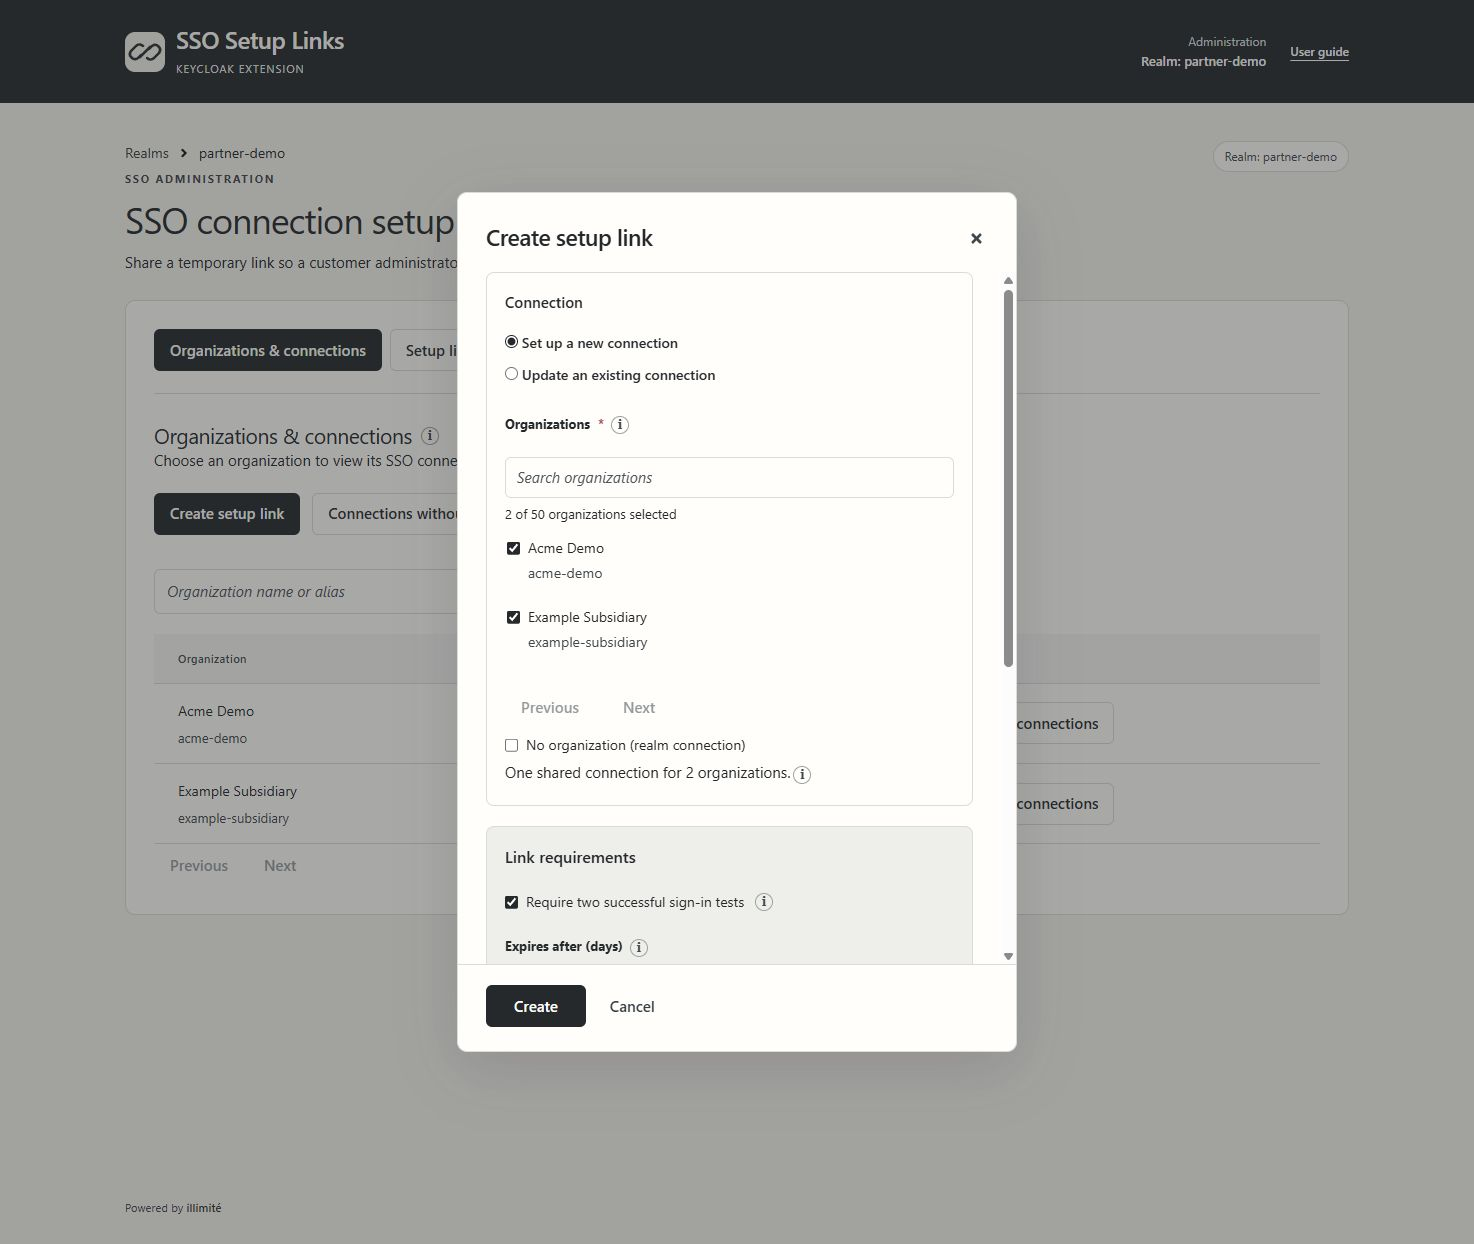
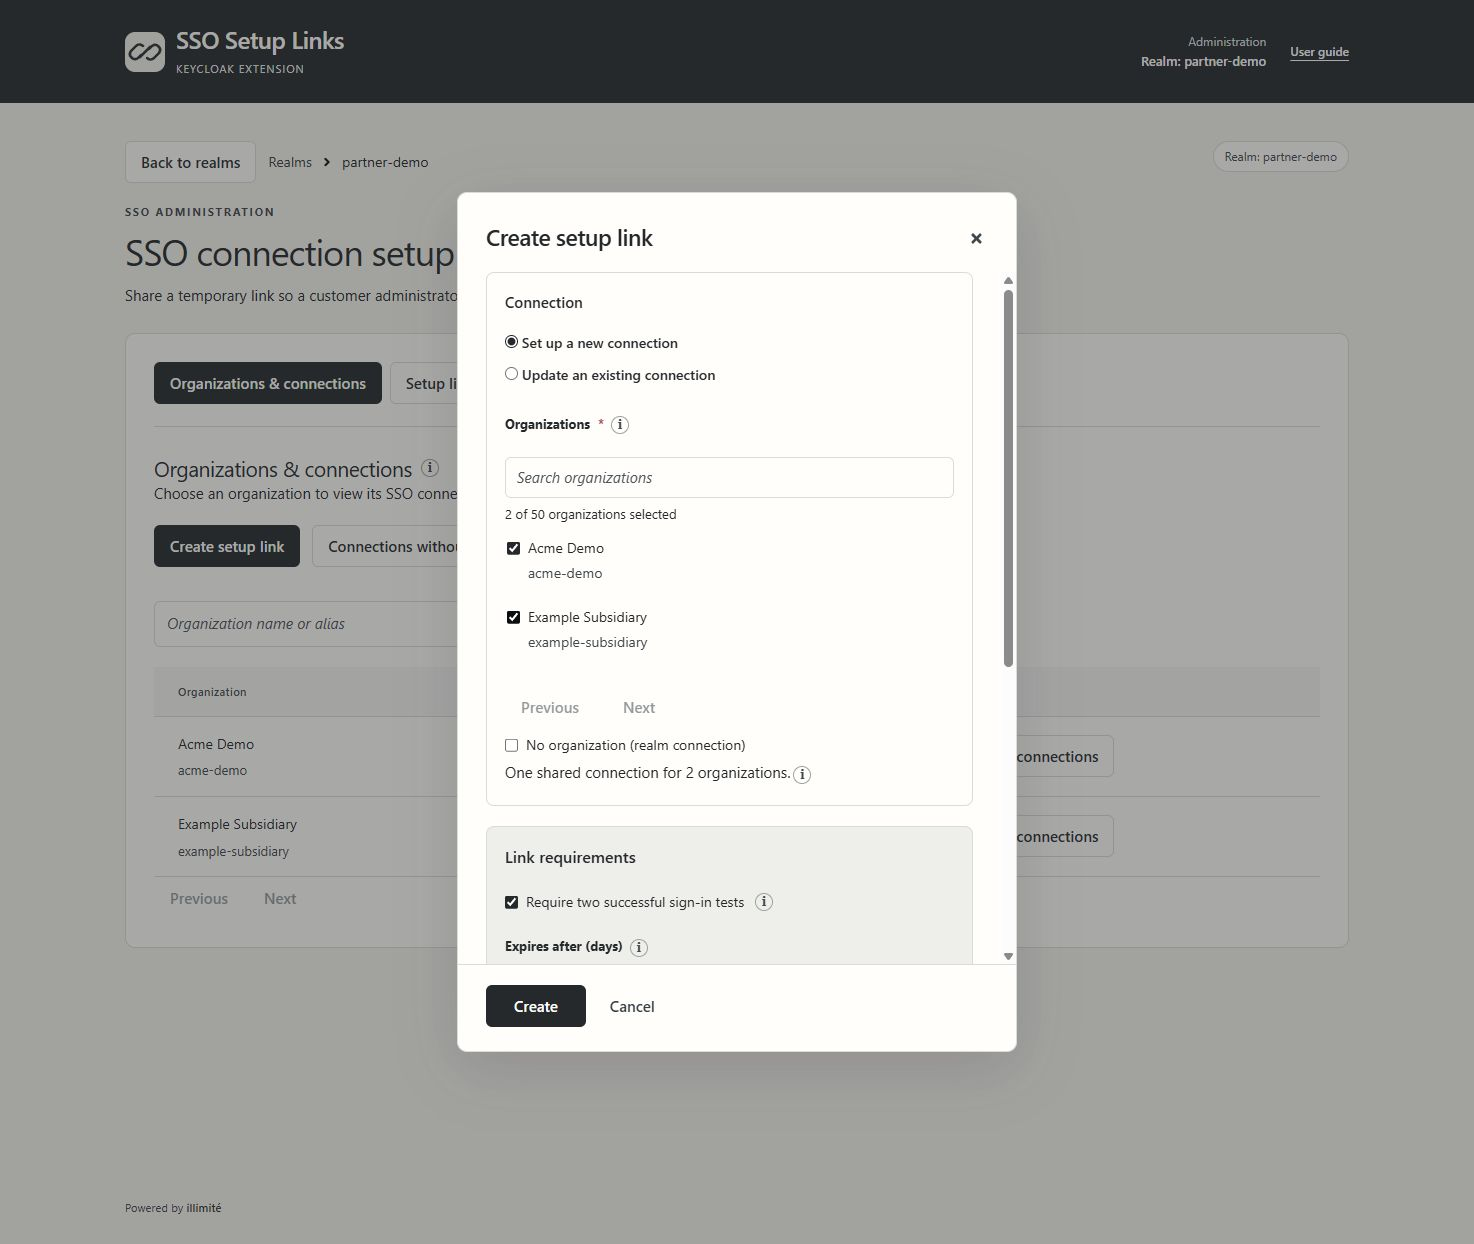
Refresh SAML walkthrough and clarify setup scopes

Changed region(s): [[0.0624, 0.1222, 0.3121, 0.7331], [0.6866, 0.6415, 0.749, 0.7026], [0.6866, 0.5804, 0.749, 0.6109]]

diff --git a/keycloak-sso/index.html b/keycloak-sso/index.html
@@ -53,7 +53,7 @@
           </div>
         </fieldset>
       </div>
-      <p class="walkthrough-note">Current owner and OIDC screens · synthetic example data. SAML examples show the earlier interface.</p>
+      <p class="walkthrough-note">Current owner and customer screens · synthetic example data.</p>
 
       <nav class="step-nav" aria-label="Walkthrough steps">
         <ol>
@@ -93,9 +93,9 @@
             <div data-protocol="saml">
               <p>Open the invitation and import the customer's SAML metadata, or enter its entity ID, sign-on URL and signing certificate.</p>
               <p>Choose a stable NameID or released identity attribute. Once the draft is saved, register its exact ACS URL or import the generated service-provider metadata.</p>
-              <a class="text-link supporting-link" href="assets/19-saml-exact-registration.jpg" data-enlarge data-caption="SAML wizard — exact ACS and service-provider registration" target="_blank" rel="noopener">See the SAML registration screen <span aria-hidden="true">↗</span></a>
+              <a class="text-link supporting-link" href="assets/2026-10-31-saml-registration.png" data-enlarge data-caption="SAML wizard — exact ACS and service-provider registration" target="_blank" rel="noopener">See the SAML registration screen <span aria-hidden="true">↗</span></a>
             </div>
-            <aside class="stage-aside"><strong>Mappings start with useful defaults.</strong> Profile rules prefill incoming username, email and name sources. The recipient can edit sources the profile allows. Required and locked rules remain enforced; the stable account ID is a separate choice.</aside>
+            <aside class="stage-aside"><strong>Mappings start with useful defaults.</strong> Profiles prefill source claim or attribute names; the provider supplies their values. Recipients can edit permitted sources and omit optional mappings. Required and locked rules stay enforced. The stable account ID is separate; native OIDC profile imports still apply.</aside>
             <p class="stage-takeaway">The wizard saves a hidden draft before testing.</p>
           </div>
           <div class="protocol-screens">
@@ -105,9 +105,9 @@
               <figcaption>Actual customer interface · OIDC configuration</figcaption>
             </figure>
             <figure class="product-screen" data-protocol="saml">
-              <div class="screen-toolbar"><span>Customer wizard <span aria-hidden="true">/</span> SAML configuration</span><a href="assets/17-saml-configuration.jpg" class="enlarge-link" data-enlarge data-caption="SAML wizard — metadata and provider configuration" target="_blank" rel="noopener">View full screenshot <span aria-hidden="true">↗</span></a></div>
-              <div class="screen-scroll"><img src="assets/17-saml-configuration.jpg" width="1440" height="1793" alt="The customer SAML configuration page showing metadata import and identity-provider fields with certificate content masked." loading="lazy"></div>
-              <figcaption>SAML configuration · earlier interface, 26 October 2026</figcaption>
+              <div class="screen-toolbar"><span>Customer wizard <span aria-hidden="true">/</span> SAML configuration</span><a href="assets/2026-10-31-saml-configuration.png" class="enlarge-link" data-enlarge data-caption="SAML wizard — metadata and provider configuration" target="_blank" rel="noopener">View full screenshot <span aria-hidden="true">↗</span></a></div>
+              <div class="screen-scroll"><img src="assets/2026-10-31-saml-configuration.png" width="1265" height="1828" alt="The current customer SAML configuration form with metadata import and example identity-provider details." loading="lazy"></div>
+              <figcaption>Actual customer interface · SAML configuration</figcaption>
             </figure>
           </div>
         </article>
@@ -129,9 +129,9 @@
               <figcaption>Two successful sign-in tests · OIDC</figcaption>
             </figure>
             <figure class="product-screen" data-protocol="saml">
-              <div class="screen-toolbar"><span>Customer wizard <span aria-hidden="true">/</span> SAML test results</span><a href="assets/20-saml-two-tests.jpg" class="enlarge-link" data-enlarge data-caption="SAML wizard — two successful sign-in tests" target="_blank" rel="noopener">View full screenshot <span aria-hidden="true">↗</span></a></div>
-              <div class="screen-scroll"><img src="assets/20-saml-two-tests.jpg" width="1440" height="1827" alt="SAML test results showing two successful sign-ins and confirmation of the same stable identity." loading="lazy"></div>
-              <figcaption>SAML sign-in tests · earlier interface, 26 October 2026</figcaption>
+              <div class="screen-toolbar"><span>Customer wizard <span aria-hidden="true">/</span> SAML test results</span><a href="assets/2026-10-31-saml-two-tests.png" class="enlarge-link" data-enlarge data-caption="SAML wizard — two successful sign-in tests" target="_blank" rel="noopener">View full screenshot <span aria-hidden="true">↗</span></a></div>
+              <div class="screen-scroll"><img src="assets/2026-10-31-saml-two-tests.png" width="1265" height="1730" alt="Two successful SAML sign-in tests confirming that the provider returned the same stable account ID." loading="lazy"></div>
+              <figcaption>Two successful sign-in tests · SAML</figcaption>
             </figure>
           </div>
         </article>
@@ -152,9 +152,9 @@
               <figcaption>Actual activation screen · OIDC connection</figcaption>
             </figure>
             <figure class="product-screen" data-protocol="saml">
-              <div class="screen-toolbar"><span>Customer wizard <span aria-hidden="true">/</span> SAML activation</span><a href="assets/21-saml-complete.jpg" class="enlarge-link" data-enlarge data-caption="SAML wizard — connection activated" target="_blank" rel="noopener">View full screenshot <span aria-hidden="true">↗</span></a></div>
-              <div class="screen-scroll"><img src="assets/21-saml-complete.jpg" width="1440" height="1050" alt="The completed SAML wizard confirming that the connection has been activated." loading="lazy"></div>
-              <figcaption>SAML activation · earlier interface, 26 October 2026</figcaption>
+              <div class="screen-toolbar"><span>Customer wizard <span aria-hidden="true">/</span> SAML activation</span><a href="assets/2026-10-31-saml-complete.png" class="enlarge-link" data-enlarge data-caption="SAML wizard — connection activated" target="_blank" rel="noopener">View full screenshot <span aria-hidden="true">↗</span></a></div>
+              <div class="screen-scroll"><img src="assets/2026-10-31-saml-complete.png" width="1280" height="720" alt="The completed setup confirming that the SAML connection is active." loading="lazy"></div>
+              <figcaption>Actual activation screen · SAML connection</figcaption>
             </figure>
           </div>
         </article>
@@ -173,9 +173,10 @@
       <div class="section-heading"><p class="eyebrow">Delegate the setup, keep the control</p><h2 id="features-heading">A useful layer around<br>the platform you already run.</h2><p>The extension handles the setup journey. Native Keycloak handles identity.</p></div>
       <div class="feature-grid">
         <article><span class="feature-index" aria-hidden="true">01 / SCOPE</span><h3>Choose who shares the connection.</h3><p>Pick one or more organizations, a protocol and an expiry. A realm connection needs no organization. Revoke an unused invitation.</p></article>
-        <article><span class="feature-index" aria-hidden="true">02 / PROFILES</span><h3>Reuse the rules you need.</h3><p>Profiles set invitation rules and mapping defaults. Choose one during setup, use the configured default, or keep standard rules when no default is set.</p></article>
+        <article><span class="feature-index" aria-hidden="true">02 / PROFILES</span><h3>Reuse the rules you need.</h3><p>Profiles set invitation rules and mapping defaults. New links snapshot the selected profile; changing the realm’s default affects future links. Without a default, standard rules apply.</p></article>
         <article><span class="feature-index" aria-hidden="true">03 / UPDATES</span><h3>Keep an existing connection current.</h3><p>Issue a link for credential replacement or changes allowed by a profile. The customer updates that connection; its organization associations stay in place.</p></article>
       </div>
+      <p class="settings-note"><strong>Profiles &amp; settings</strong> separates reusable <strong>Profiles</strong> from <strong>Realm settings</strong>. Native organization tasks live in <strong>Organization tools</strong>.</p>
       <div class="ownership-note"><span class="ownership-mark" aria-hidden="true">↳</span><p><strong>Still your Keycloak.</strong> Native accounts, sessions, brokering and access policies stay with the host platform. The extension stays focused on SSO setup and maintenance.</p></div>
     </section>
 
@@ -227,9 +228,17 @@ Content-Type: application/json</code></pre>
           <p>Use the connection’s immutable ID, not its name. Omit organization fields: the server derives and checks all its existing associations.</p>
         </article>
       </div>
+      <div class="api-values" aria-labelledby="api-values-heading">
+        <h3 id="api-values-heading">Accepted values</h3>
+        <dl>
+          <div><dt><code>purpose</code></dt><dd><code>CREATE</code> (default): a new connection. <code>ROTATE_CREDENTIALS</code>: credentials only. <code>MAINTAIN</code>: changes permitted by a profile.</dd></div>
+          <div><dt><code>allowedProviderTypes</code></dt><dd>An array containing <code>"oidc"</code>, <code>"saml"</code> or both. Use these exact lowercase values; purpose values are uppercase.</dd></div>
+        </dl>
+        <a class="text-link supporting-link" href="#api-options">Optional fields and a full example <span aria-hidden="true">↓</span></a>
+      </div>
       <p class="api-outcome"><strong>The response contains a setup URL.</strong> Send it privately to the customer administrator. The API issues the invitation; the customer supplies settings and completes the wizard.</p>
-      <details class="api-more">
-        <summary>With optional settings</summary>
+      <details class="api-more" id="api-options">
+        <summary>Optional fields and a full example</summary>
         <pre class="api-code"><code>{
   "purpose": "CREATE",
   "organizationId": "&lt;org-id&gt;",
@@ -240,8 +249,14 @@ Content-Type: application/json</code></pre>
   "profileRevision": 1,
   "allowedDomains": ["acme.example"]
 }</code></pre>
-        <p>Domain entries must already belong to that organization. For a shared connection, replace <code>organizationId</code> with <code>organizationIds</code> and omit <code>allowedDomains</code>.</p>
-        <p>Omit the profile fields to use the configured default or standard rules. An explicit revision must be the profile’s latest enabled revision. These settings can narrow its rules, never weaken them.</p>
+        <dl class="api-fields">
+          <div><dt><code>expirationSeconds</code></dt><dd>Integer lifetime in seconds, within the profile’s limit. Omit for the configured default.</dd></div>
+          <div><dt><code>requireTwoSuccessfulTests</code></dt><dd>Boolean. <code>true</code> requires two matching sign-ins; it cannot weaken a profile’s requirement.</dd></div>
+          <div><dt><code>profileId</code> / <code>profileRevision</code></dt><dd>Select an enabled profile and optionally its latest enabled revision. Omit both for the configured default or standard rules.</dd></div>
+          <div><dt><code>allowedDomains</code></dt><dd>Array of domains already configured on the single selected organization. Omit for shared connections.</dd></div>
+        </dl>
+        <p>For a shared connection, replace <code>organizationId</code> with <code>organizationIds</code> and omit <code>allowedDomains</code>.</p>
+        <p>Optional settings can narrow the profile’s rules, never weaken them.</p>
       </details>
       <details class="api-more">
         <summary>Find IDs and other actions</summary>

diff --git a/keycloak-sso/styles.css b/keycloak-sso/styles.css
@@ -31,7 +31,7 @@ h1, h2, h3 { font-weight: 500; line-height: 1.15; text-wrap: balance; overflow-w
 p { text-wrap: pretty; }
 code { font-family: ui-monospace, "Cascadia Code", Consolas, monospace; font-size: .88em; }
 .shell { width: min(1200px, calc(100% - 96px)); margin-inline: auto; }
-.section-space { margin-top: 100px; }
+.section-space { margin-top: 76px; }
 .eyebrow { font-size: .7rem; font-weight: 600; letter-spacing: .13em; text-transform: uppercase; color: var(--accent); }
 .text-link { display: inline-flex; align-items: center; gap: 16px; font-size: .86rem; font-weight: 600; color: var(--accent); text-decoration: none; }
 .text-link:hover { text-decoration: underline; }
@@ -50,7 +50,7 @@ code { font-family: ui-monospace, "Cascadia Code", Consolas, monospace; font-siz
 .header-nav a:last-child { color: var(--accent); }
 .header-nav a span { margin-left: 6px; }
 
-.intro { padding-top: 64px; padding-bottom: 58px; }
+.intro { padding-top: 64px; padding-bottom: 46px; }
 .intro .eyebrow { display: flex; align-items: center; gap: 10px; flex-wrap: wrap; }
 .status-dot { width: 6px; height: 6px; background: var(--accent); border-radius: 50%; }
 .preview-label { margin-left: 8px; padding: 3px 8px; border: 1px solid var(--line); border-radius: 4px; color: var(--muted); letter-spacing: .04em; font-size: .62rem; }
@@ -81,19 +81,20 @@ h1 span { color: var(--accent); }
 .step-nav small { display: block; font-size: .6rem; text-transform: uppercase; letter-spacing: .08em; margin-bottom: 2px; }
 .step-nav strong { display: block; font-size: .88rem; font-weight: 600; }
 .step-nav a > span:last-child { min-width: 0; overflow-wrap: anywhere; }
-.stage-container { margin-top: 32px; }
+.stage-container { margin-top: 28px; }
 .walkthrough-step { display: grid; grid-template-columns: minmax(0, .8fr) minmax(0, 1.65fr); gap: 34px; align-items: start; scroll-margin-top: 28px; }
 .walkthrough-step + .walkthrough-step { margin-top: 50px; }
 .enhanced .walkthrough-step { margin-top: 0; }
-.stage-copy { padding-top: 6px; }
+.stage-copy { min-width: 0; }
 .role-label { display: flex; align-items: center; gap: 8px; font-size: .66rem; color: var(--accent); }
 .role-label span { font-size: .45rem; }
 .stage-copy h3 { margin-top: 17px; font-size: 1.65rem; letter-spacing: -.035em; }
 .stage-copy p:not(.role-label) { margin-top: 17px; font-size: .82rem; color: var(--muted); line-height: 1.75; }
-.stage-aside { margin-top: 23px; padding-left: 15px; border-left: 2px solid var(--line); font-size: .75rem; color: var(--muted); line-height: 1.7; }
+.stage-aside { margin-top: 20px; padding-left: 15px; border-left: 2px solid var(--line); font-size: .75rem; color: var(--muted); line-height: 1.7; }
 .stage-aside strong { display: block; margin-bottom: 4px; font-weight: 600; color: var(--ink); }
 .stage-copy p.stage-takeaway { font-size: .72rem; line-height: 1.7; color: var(--accent); }
-.supporting-link { margin-top: 14px; font-size: .75rem; gap: 8px; }
+.supporting-link { display: flex; width: fit-content; max-width: 100%; margin-top: 14px; font-size: .75rem; gap: 8px; }
+.supporting-link + .supporting-link { margin-top: 8px; }
 .protocol-screens { min-width: 0; }
 .protocol-screens .product-screen + .product-screen { margin-top: 20px; }
 .enhanced .protocol-screens .product-screen { margin-top: 0; }
@@ -103,10 +104,10 @@ h1 span { color: var(--accent); }
 .screen-toolbar > span > span { margin-inline: 4px; opacity: .65; }
 .enlarge-link { font-size: .64rem; flex-shrink: 0; text-decoration: none; font-weight: 600; color: var(--accent); }
 .enlarge-link:hover { text-decoration: underline; }
-.screen-scroll { max-height: 530px; overflow-y: auto; scrollbar-width: thin; scrollbar-color: #b8c7bb transparent; background: #fafafa; }
+.screen-scroll { max-height: 530px; overflow: auto; scrollbar-width: thin; scrollbar-color: #b8c7bb transparent; background: #fafafa; }
 .screen-scroll img { display: block; width: 100%; height: auto; }
 .product-screen figcaption { padding: 10px 15px; border-top: 1px solid var(--line); font-size: .64rem; color: var(--muted); }
-.walkthrough-controls { display: flex; justify-content: space-between; align-items: center; gap: 16px; padding-top: 25px; margin-top: 28px; border-top: 1px solid var(--line); }
+.walkthrough-controls { display: flex; justify-content: space-between; align-items: center; gap: 16px; padding-top: 22px; margin-top: 24px; border-top: 1px solid var(--line); }
 .button { display: inline-flex; align-items: center; justify-content: center; gap: 12px; border-radius: 5px; border: 1px solid transparent; padding: 10px 16px; font-size: .77rem; font-weight: 600; line-height: 1.5; text-decoration: none; }
 .button-primary { color: #fff; background: var(--accent); }
 .button-primary:hover { background: #1c4833; }
@@ -118,12 +119,14 @@ h1 span { color: var(--accent); }
 
 .section-heading h2 { font-size: clamp(1.9rem, 3.3vw, 2.7rem); letter-spacing: -.04em; margin-top: 14px; line-height: 1.16; }
 .section-heading > p:not(.eyebrow) { max-width: 510px; margin-top: 19px; font-size: .9rem; color: var(--muted); }
-.feature-grid { display: grid; grid-template-columns: repeat(3, minmax(0, 1fr)); gap: 42px; margin-top: 40px; }
+.feature-grid { display: grid; grid-template-columns: repeat(3, minmax(0, 1fr)); gap: 36px; margin-top: 32px; }
 .feature-grid article { border-top: 1px solid var(--line); padding-top: 20px; }
 .feature-index { font-size: .63rem; color: var(--accent); letter-spacing: .08em; }
 .feature-grid h3 { font-size: 1.17rem; line-height: 1.35; margin-top: 12px; letter-spacing: -.02em; }
 .feature-grid p { margin-top: 13px; color: var(--muted); font-size: .84rem; }
-.ownership-note { display: flex; align-items: flex-start; gap: 17px; padding-top: 26px; border-top: 1px solid var(--line); margin-top: 34px; }
+.settings-note { max-width: 900px; margin-top: 24px; color: var(--muted); font-size: .8rem; }
+.settings-note strong { color: var(--ink); font-weight: 600; }
+.ownership-note { display: flex; align-items: flex-start; gap: 17px; padding-top: 24px; border-top: 1px solid var(--line); margin-top: 26px; }
 .ownership-mark { font-size: 1.5rem; color: var(--accent); line-height: 1.1; }
 .ownership-note p { max-width: 850px; font-size: .83rem; color: var(--muted); }
 .ownership-note strong { color: var(--ink); font-weight: 600; }
@@ -134,9 +137,16 @@ h1 span { color: var(--accent); }
 .shared-grid .product-screen { margin-top: 20px; }
 .api-code { min-width: 0; max-width: 100%; overflow-x: auto; margin: 20px 0 0; padding: 20px; border: 1px solid var(--line); border-radius: 7px; background: var(--surface); font-size: .83rem; line-height: 1.7; }
 .api-code code { overflow-wrap: normal; }
+.api-values { margin-top: 26px; padding-top: 22px; border-top: 1px solid var(--line); }
+.api-values h3 { font-size: 1rem; line-height: 1.4; }
+.api-values dl, .api-fields { display: grid; gap: 12px; margin: 16px 0 0; font-size: .8rem; }
+.api-values dl > div, .api-fields > div { display: grid; grid-template-columns: minmax(0, 190px) minmax(0, 1fr); gap: 18px; }
+.api-values dt, .api-fields dt { color: var(--ink); }
+.api-values dd, .api-fields dd { margin: 0; color: var(--muted); }
+.api-values code, .api-fields code { overflow-wrap: anywhere; }
 .api-outcome { margin-top: 26px; color: var(--muted); font-size: .86rem; }
 .api-outcome strong { color: var(--ink); }
-.api-more { margin-top: 24px; padding: 18px 20px; border: 1px solid var(--line); border-radius: 7px; }
+.api-more { margin-top: 18px; padding: 18px 20px; border: 1px solid var(--line); border-radius: 7px; }
 .api-more summary { cursor: pointer; font-size: .86rem; font-weight: 600; }
 .api-more p { margin-top: 15px; color: var(--muted); font-size: .83rem; }
 .api-more code { overflow-wrap: anywhere; }
@@ -155,7 +165,7 @@ summary:focus-visible { outline: 3px solid #397b56; outline-offset: 5px; }
 .url-example span { display: block; color: var(--muted); font-size: .65rem; margin-bottom: 6px; }
 .url-example code { font-size: .72rem; overflow-wrap: anywhere; line-height: 1.7; }
 .install-footnote { font-size: .72rem; color: var(--muted); margin-top: 19px; }
-.site-footer { display: flex; align-items: flex-end; justify-content: space-between; gap: 30px; padding-block: 42px; margin-top: 42px; }
+.site-footer { display: flex; align-items: flex-end; justify-content: space-between; gap: 30px; padding-block: 36px; }
 .footer-wordmark { font-size: 1.4rem; }
 .site-footer p { font-size: .7rem; color: var(--muted); margin-top: 8px; }
 .site-footer > p { text-align: right; }
@@ -206,7 +216,7 @@ summary:focus-visible { outline: 3px solid #397b56; outline-offset: 5px; }
   .step-nav a { gap: 9px; }
   .step-number { width: 24px; height: 24px; font-size: .64rem; }
   .step-nav strong { font-size: .77rem; }
-  .section-space { margin-top: 70px; }
+  .section-space { margin-top: 60px; }
   .feature-grid { gap: 27px; }
   .shared-grid, .api-grid { grid-template-columns: minmax(0, 1fr); gap: 28px; }
   .feature-grid h3 { font-size: 1.08rem; }
@@ -251,7 +261,7 @@ summary:focus-visible { outline: 3px solid #397b56; outline-offset: 5px; }
   .walkthrough-controls { flex-wrap: wrap; padding-top: 19px; margin-top: 22px; gap: 12px; }
   .step-progress { order: -1; width: 100%; }
   .walkthrough-controls .button { padding: 10px 11px; font-size: .72rem; gap: 8px; }
-  .section-space { margin-top: 58px; }
+  .section-space { margin-top: 48px; }
   .section-heading h2 { font-size: 1.95rem; }
   .section-heading > p:not(.eyebrow) { font-size: .85rem; }
   .feature-grid { grid-template-columns: 1fr; gap: 25px; margin-top: 30px; }
@@ -259,12 +269,13 @@ summary:focus-visible { outline: 3px solid #397b56; outline-offset: 5px; }
   .feature-grid p { font-size: .84rem; }
   .ownership-note { gap: 12px; }
   .ownership-note p { font-size: .8rem; }
+  .api-values dl > div, .api-fields > div { grid-template-columns: minmax(0, 1fr); gap: 3px; }
   .installation-section { padding-block: 36px; }
   .install-list li { gap: 14px; }
   .install-list p { font-size: .8rem; }
   .url-example { padding: 13px 14px; }
   .url-example code { font-size: .69rem; }
-  .site-footer { align-items: flex-start; flex-direction: column; gap: 19px; padding-block: 30px; margin-top: 24px; }
+  .site-footer { align-items: flex-start; flex-direction: column; gap: 19px; padding-block: 30px; }
   .site-footer > p { text-align: left; margin-top: 0; }
   .image-dialog { width: calc(100vw - 20px); height: calc(100dvh - 20px); border-radius: 6px; }
   .dialog-toolbar { align-items: flex-start; gap: 14px; padding: 12px; }
